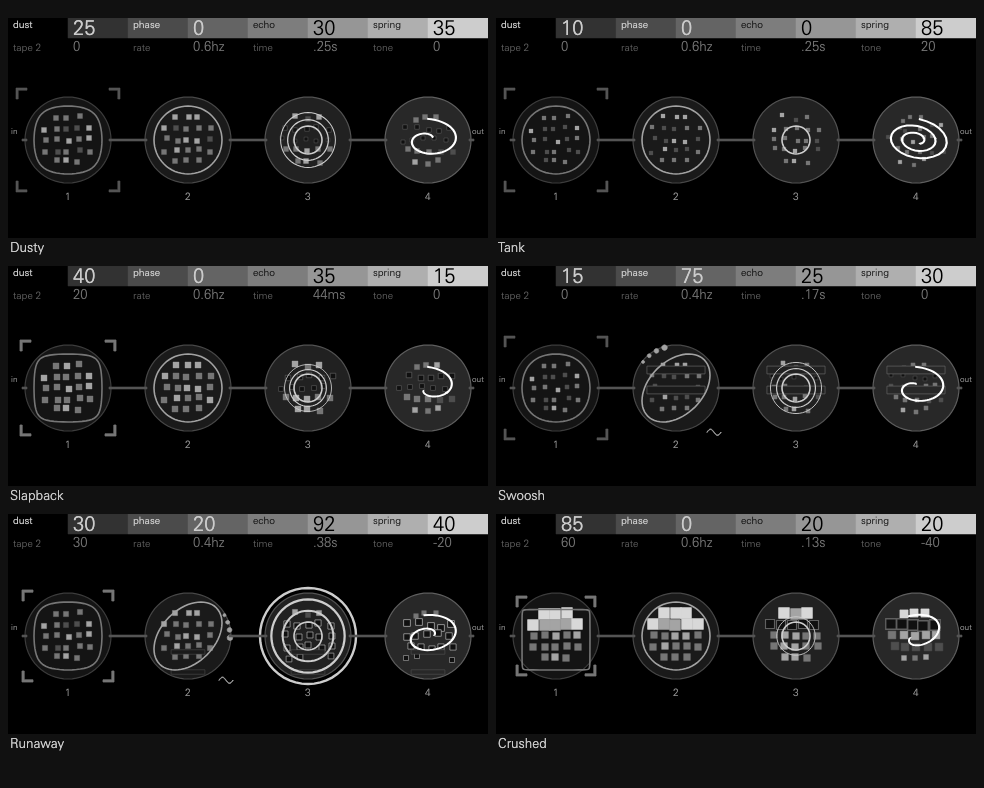
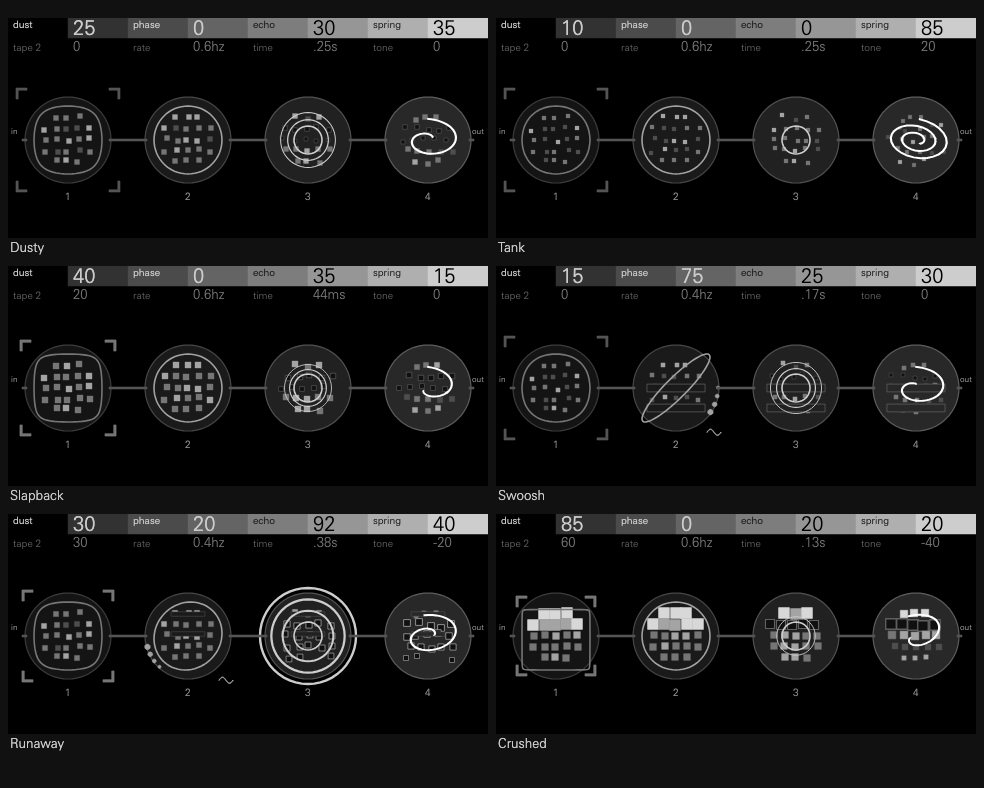
Lint prototype: changes travel along the order, and each section moves as they arrive
A change reaches the scopes a stage at a time, one scope a step at 30 Hz.
As it arrives dust's grain judders, the echo's copies step out at the echo's
time, the spring's rows ring for as long as its drive, tape 2's banding
wavers; the lamp drifts the gaps and LFO 2 moves its target. Tape 2 wears
every other row of the last scope. A design exploration: not for release.

diff --git a/lint/display.cpp b/lint/display.cpp
@@ -67,16 +67,24 @@ void spring(Frame::path_type& a, Frame::path_type& b, i32 drive, i32 tone, i32 s
 
 // The material inside the scopes, passed along the order: each scope shows it
 // as its section leaves it, so the last in the order holds the whole chain.
-struct Material {
-    i32 size, jitter, level, spread;   // Q10 px, Q10 px, Q10 grey steps (0..3), Q10 steps
-    i32 lop;                           // Q15: top rows heavier
-    i32 ripple;                        // Q10 px: alternate rows pushed apart by the spring
-    i32 notch, notch_y;                // Q15 depth of phase's gaps; Q10 px from the top
-    i32 copies, gap, copy_h[5];        // echo: rows that copy the top row, each shifted `gap`
-    i32 copy_jit;                      // Q10 px: the copies shimmer
-    bool copy_holes;                   // the lamp in the echo's loop cuts its copies
-    i32 band;                          // Q15: tape 2's banding
+// Motion: what a section is doing as the material arrives at it.
+struct Motion {
+    i32 reveal;       // echo: copies shown so far, stepping out at the echo's time
+    i32 shake;        // dust: Q10 px the crushed grain judders, dying away
+    i32 ring;         // spring: Q10 px the rows ring, signed, dying away with the drive
+    i32 waver;        // tape 2: Q15 the banding wavers by
+    i32 gap;          // wobble on time: Q10 px the copies' shift swings by
 };
+
+// Whether two materials differ in what a control set (the lamp's live gap
+// position aside): a change, which passes along the order.
+bool same(const Material& a, const Material& b) {
+    const i32* x = &a.size;
+    const i32* y = &b.size;
+    for (u32 k = 0; k < sizeof(Material) / sizeof(i32); ++k)
+        if (x + k != &a.notch_y && x[k] != y[k]) return false;
+    return true;
+}
 
 void op_dust(Material& m, i32 d) {
     m.size = m.size + ((px(10) - m.size) * d >> 15);
@@ -91,7 +99,7 @@ void op_dust(Material& m, i32 d) {
 
 void op_phase(Material& m, i32 depth, i32 glow) {
     m.notch = clamp(depth * 3 / 2, 0, 32767);
-    m.notch_y = (px(8) + share(px(40), glow)) & ~(px(2) - 1);
+    m.notch_y = (px(8) + share(px(28), glow)) & ~(px(2) - 1);   // both gaps stay inside the disc
 }
 
 void op_echo(Material& m, i32 e, i32 time) {
@@ -118,7 +126,7 @@ void op_spring(Material& m, i32 drive, i32 tone) {
     if (m.copies) m.copy_jit = share(px(3), drive);
 }
 
-void texture(Frame& frame, u32 s, const Material& m) {
+void texture(Frame& frame, u32 s, const Material& m, const Motion& mo) {
     const i32 cx = px(kCX[s]), cy = px(kCY);
     for (u32 k = 0; k < 25; ++k) {
         const u32 node = kNodeGrain00 + s * 25 + k;
@@ -126,6 +134,7 @@ void texture(Frame& frame, u32 s, const Material& m) {
         if ((c == 0 || c == 4) && (r == 0 || r == 4)) { hide(frame, node); continue; }
         // Rows below the first may be the echo's copies of it, each shifted further.
         const i32 q = r >= 1 && r <= m.copies ? r : 0;
+        if (q > mo.reveal) { hide(frame, node); continue; }
         const i32* j = kJitter[s][q ? c : k];
         i32 size = m.size, level = m.level + (m.spread * j[2] >> 10);
         const i32 row = q ? 0 : r;
@@ -133,24 +142,27 @@ void texture(Frame& frame, u32 s, const Material& m) {
             size = size * (row < 2 ? 1024 + (m.lop * 380 >> 15) : 1024 - (m.lop * 420 >> 15)) >> 10;
             level += row < 2 ? m.lop >> 5 : -(m.lop >> 5);
         }
-        i32 lx = (c - 2) * px(kPitch) + (m.jitter * j[0] >> 10) + (r & 1 ? m.ripple : -m.ripple);
-        i32 ly = (r - 2) * px(kPitch) + (m.jitter * j[1] >> 10);
+        const i32 jit = m.jitter + mo.shake;
+        const i32* own = kJitter[s][k];
+        i32 lx = (c - 2) * px(kPitch) + (jit * (mo.shake ? own[1] : j[0]) >> 10) + (r & 1 ? m.ripple + mo.ring : -m.ripple - mo.ring);
+        i32 ly = (r - 2) * px(kPitch) + (jit * (mo.shake ? own[0] : j[1]) >> 10);
         u32 shade;
         if (q) {
             const i32 h = m.copy_h[q];
-            lx += m.gap * q;
+            lx += (m.gap + mo.gap) * q;
             while (lx > px(kPitch * 2 + 4)) lx -= px(kPitch * 5);
-            const i32* own = kJitter[s][k];
             lx += m.copy_jit * own[0] >> 10;
             ly += m.copy_jit * own[1] >> 10;
             size = size * (760 + (h * 420 >> 15)) >> 10;     // past Madness, larger than the first
             shade = h > 20000 ? kShadeCopy0 : kShadeCopy1;
             if (m.copy_holes && ((c + r) & 1)) { hide(frame, node); continue; }
         } else {
-            if (m.band) level += r & 1 ? -share(2560, m.band) : share(768, m.band);
+            const i32 band = clamp(m.band + mo.waver, 0, 32767);
+            if (band) level += r & 1 ? -share(3 * unit, band) : share(unit, band);   // worn: every other row fades out
             shade = kShadeG0 + static_cast<u32>(clamp(level >> 10, 0, 3));
         }
-        if (m.band && (r == 0 || r == 4)) size = size * (1024 - (m.band * 600 >> 15)) >> 10;
+        if (m.band && (r == 0 || r == 4)) size = size * (1024 - (m.band * 700 >> 15)) >> 10;
+        if (m.band && (r & 1) && !q) size = size * (1024 - (m.band * 400 >> 15)) >> 10;
         const i32 x = (cx + lx) & ~(unit - 1), y = (cy + ly) & ~(unit - 1);
         place(frame, node, x, y, clamp(size / 8, 320, 1400) & ~31, shade, fill_and_stroke);
     }
@@ -257,7 +269,7 @@ void display(DisplayState& state, const Input& input, Frame& frame) {
         m.level = unit + 256;
         m.spread = 1100;
         Material at[4];
-        i32 last = 0, echo_col = 2;
+        i32 last = 0, echo_col = 2, cols[4], count = 0;
         for (u32 p = 0; p < 4; ++p) {
             const char c = kOrders[n.order][p];
             const i32 col = c == 'D' ? 0 : c == 'P' ? 1 : c == 'E' ? 2 : 3;
@@ -274,12 +286,63 @@ void display(DisplayState& state, const Input& input, Frame& frame) {
             if (col == 3) op_spring(m, drive, v[kTone]);
             at[col] = m;
             last = col;
+            cols[count++] = col;
         }
         // Tape 2 after the chain: the last scope shows it.
         if (n.loop != kLoopTape && level > 328) { at[last].band = level; }
         // A section in the echo's loop shows the echo's material.
         if (n.patched >= 0) at[n.patched] = at[echo_col];
-        for (u32 s = 0; s < 4; ++s) texture(frame, s, at[s]);
+        // A change passes along the order a stage at a time, 70 ms a hop; a
+        // section in the echo's loop takes the echo's turn.
+        const bool instant = fresh || input.reduced_motion;
+        if (!input.reduced_motion) state.clock += clamp(input.elapsed, 0, 102);
+        const i32 now = state.clock, hop = 72;
+        // At most one stage takes the change a step, and steps come at 30 Hz:
+        // a turn redraws one scope's grain at a time.
+        const i32 t30 = (now * 30) >> 10;
+        bool slot = instant || t30 != state.extra[4];
+        if (slot) state.extra[4] = t30;
+        for (i32 k = 0; k < count; ++k) {
+            const i32 col = cols[k];
+            const bool ready = k == 0 || (same(state.shown[cols[k - 1]], at[cols[k - 1]]) && now - state.since[cols[k - 1]] >= hop);
+            if (!same(state.shown[col], at[col]) && (instant || (ready && slot))) {
+                state.shown[col] = at[col];
+                state.since[col] = instant ? now - 4096 : now;
+                slot = instant;
+            }
+        }
+        if (n.patched >= 0 && !same(state.shown[n.patched], at[n.patched]) && (instant || (slot && now - state.since[echo_col] >= hop))) {
+            state.shown[n.patched] = at[n.patched];
+            state.since[n.patched] = instant ? now - 4096 : now;
+        }
+        // Each section's motion as the material arrives, stepped at 20 Hz so few nodes change a frame.
+        const i32 ms = clamp(curve(kEchoMs, v[kTime]) >> 10, 40, 160);
+        for (u32 s = 0; s < 4; ++s) {
+            Material shown = state.shown[s];
+            shown.notch_y = at[s].notch_y;   // the lamp moves the gaps live
+            const i32 age = now - state.since[s];
+            const i32 tick = (age * 20) >> 10;   // 20ths of a second since it arrived
+            Motion mo = {5, 0, 0, 0, 0};
+            if (s == 2 && shown.copies) {
+                // One copy more every echo time (40..160 ms), no division at run time.
+                const i32 age_ms = age * 1000 >> 10;
+                mo.reveal = 1;
+                for (i32 t = ms; t <= age_ms && mo.reveal < 5; t += ms) ++mo.reveal;
+            }
+            if (s == 0 && v[kDust] > 328 && tick < 4) mo.shake = share(px(3), v[kDust]) * (4 - tick) >> 2;
+            if (s == 3 && drive > 328) {
+                const i32 ring = 4 + share(14, drive);                 // ticks it rings for
+                static const i32 kInv[19] = {0, 1024, 512, 341, 256, 205, 171, 146, 128, 114, 102, 93, 85, 79, 73, 68, 64, 60, 57};
+                if (tick < ring) mo.ring = (tick & 1 ? -1 : 1) * (share(px(3), drive) * (ring - tick) * kInv[ring] >> 10);
+            }
+            if (s == static_cast<u32>(last) && shown.band && tick < 6) mo.waver = tick & 1 ? -6000 : 6000;
+            if (n.wobble == kWobbleTime && shown.copies && static_cast<i32>(s) == echo_col) {
+                const i32 t20 = (now * 12) >> 10;   // stepped at 12 Hz, in the echo's scope only
+                if (t20 != state.extra[2]) { state.extra[2] = t20; state.extra[3] = share(px(3), n.lfo2) & ~(unit - 1); }
+                mo.gap = state.extra[3];
+            }
+            texture(frame, s, shown, mo);
+        }
     }
 
     // The order: each scope's place under it, and the line between neighbours

diff --git a/lint/display.h b/lint/display.h
@@ -5,10 +5,26 @@ namespace lint {
 // Matches resources.display in definition.json: paths, points, nodes, texts,
 // palette. tools/make_panel.py names every node (panel.h).
 using Frame = opxy::draw::Frame<4, 64, 155, 20, 16>;
+// The material inside the scopes, passed along the order (display.cpp).
+struct Material {
+    opxy::i32 size, jitter, level, spread;   // Q10 px, Q10 px, Q10 grey steps (0..3), Q10 steps
+    opxy::i32 lop;                           // Q15: top rows heavier
+    opxy::i32 ripple;                        // Q10 px: alternate rows pushed apart by the spring
+    opxy::i32 notch, notch_y;                // Q15 depth of phase's gaps; Q10 px from the top (live)
+    opxy::i32 copies, gap, copy_h[5];        // echo: rows that copy the top row, each shifted `gap`
+    opxy::i32 copy_jit;                      // Q10 px: the copies shimmer
+    opxy::i32 copy_holes;                    // the lamp in the echo's loop cuts its copies
+    opxy::i32 band;                          // Q15: tape 2's banding
+};
 // The controls as the screen shows them, the LFOs and the two-page header
-// (view.hpp); then the first frame's flag in extra[7].
+// (view.hpp); extra[] holds the first frame's flag and the motion's steps.
 struct DisplayState {
     view::Controls c;
     opxy::i32 extra[8];
+    // What each scope shows, and when it arrived there (Q10 s on `clock`):
+    // a change passes along the order a stage at a time.
+    Material shown[4];
+    opxy::i32 since[4];
+    opxy::i32 clock;
 };
 }

diff --git a/lint/README.md b/lint/README.md
@@ -82,6 +82,13 @@ further by time, as many as the feedback holds, outgrowing it past Madness.
 Spring pushes the rows apart and makes the grain finer and brighter, or
 coarser and darker, with tone. Tape 2 bands the rows of the last scope.
 
+A change travels: turn a control and the material passes along the order a
+scope at a time, each taking it a moment after the one before. As it arrives,
+dust's grain judders, harder the more it drives; the echo's copies step out
+one at a time at the echo's time; the spring's rows ring, longer the harder it
+is driven; tape 2's banding wavers. The lamp drifts the gaps at its rate and in
+its shape, and LFO 2 moves what it wobbles. Otherwise the screen is still.
+
 Under each scope is its place in the order; a bar joins neighbours the order
 runs straight through. A section patched into the echo's loop loses its place,
 the loop reaches it from under the echo, and it works on the echo's copies.
